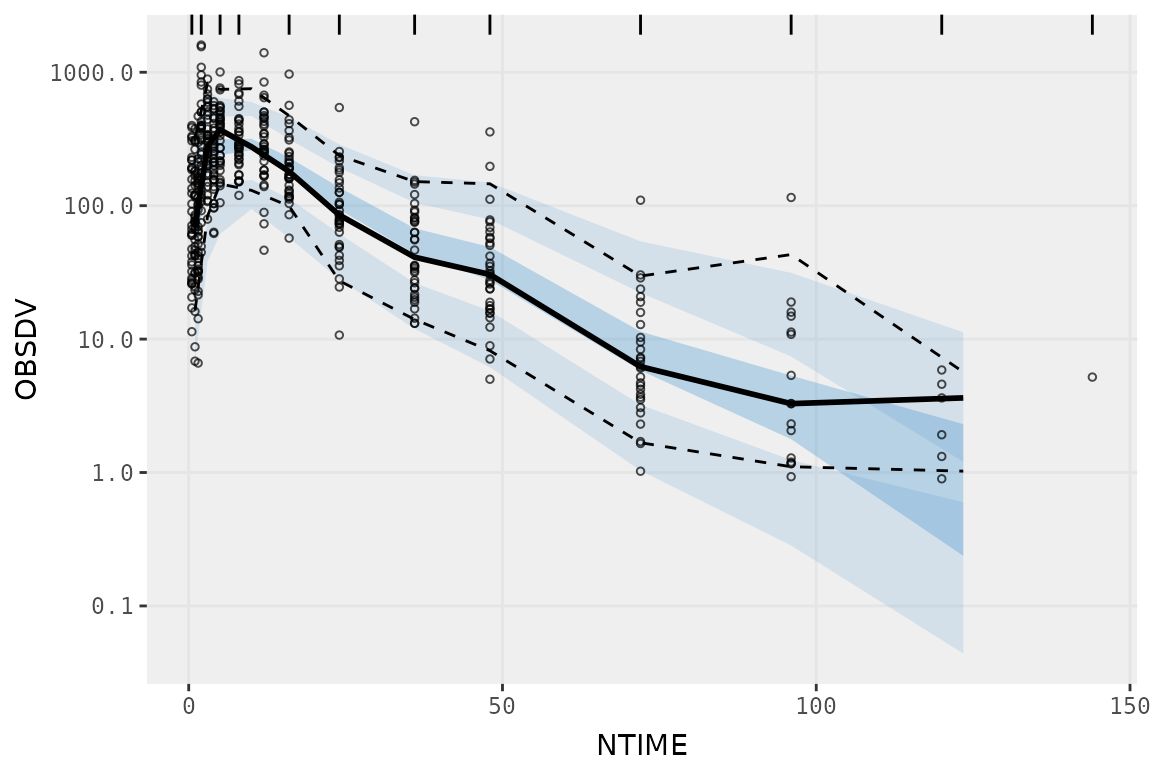
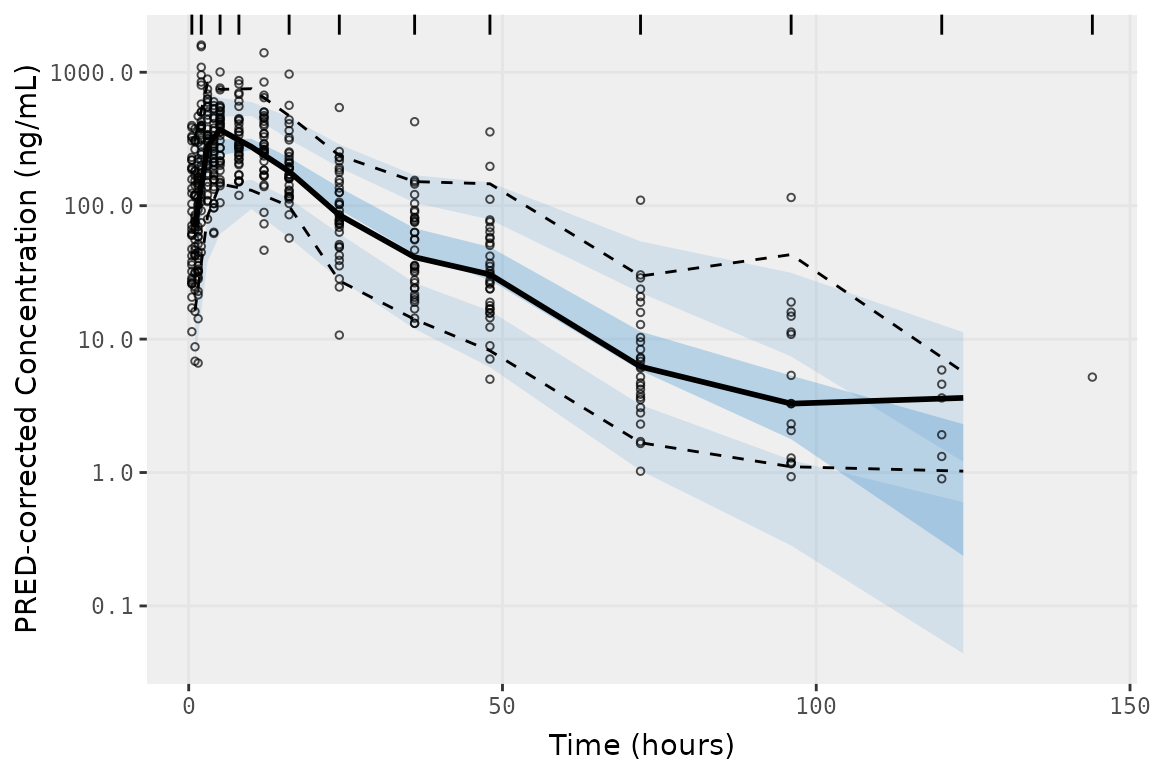
Deploying to gh-pages from @ ryancrass/pmxhelpr@c3bf84412fdc14baec981d64466ee2b2bd3fbf2d 🚀

Changed region(s): [[0.0, 0.25, 0.0312, 0.8438], [0.4688, 0.9375, 0.625, 1.0], [0.0, 0.0938, 0.0312, 0.2188]]

diff --git a/articles/vpc-exact-bins.html b/articles/vpc-exact-bins.html
@@ -366,7 +366,9 @@ plot all the data on a single plot using the argument
 <span>  pi <span class="op">=</span> <span class="fu"><a href="https://rdrr.io/r/base/c.html" class="external-link">c</a></span><span class="op">(</span><span class="fl">0.05</span>, <span class="fl">0.95</span><span class="op">)</span>,</span>
 <span>  ci <span class="op">=</span> <span class="fu"><a href="https://rdrr.io/r/base/c.html" class="external-link">c</a></span><span class="op">(</span><span class="fl">0.05</span>, <span class="fl">0.95</span><span class="op">)</span>,</span>
 <span>  show <span class="op">=</span> <span class="fu"><a href="https://rdrr.io/r/base/list.html" class="external-link">list</a></span><span class="op">(</span>obs_dv <span class="op">=</span> <span class="cn">TRUE</span><span class="op">)</span>,</span>
-<span>  log_y <span class="op">=</span> <span class="cn">TRUE</span></span>
+<span>  log_y <span class="op">=</span> <span class="cn">TRUE</span>,</span>
+<span>  xlab <span class="op">=</span> <span class="st">"Time (hours)"</span>,</span>
+<span>  ylab <span class="op">=</span> <span class="st">"PRED-corrected Concentration (ng/mL)"</span></span>
 <span><span class="op">)</span></span>
 <span><span class="va">vpc_jenks</span></span></code></pre></div>
 <p><img src="vpc-exact-bins_files/figure-html/plot-jenks-1.png" width="576"></p>
@@ -449,7 +451,9 @@ binning methods native to <code><a href="https://rdrr.io/pkg/vpc/man/vpc.html" c
 <span>  pi <span class="op">=</span> <span class="fu"><a href="https://rdrr.io/r/base/c.html" class="external-link">c</a></span><span class="op">(</span><span class="fl">0.05</span>, <span class="fl">0.95</span><span class="op">)</span>,</span>
 <span>  ci <span class="op">=</span> <span class="fu"><a href="https://rdrr.io/r/base/c.html" class="external-link">c</a></span><span class="op">(</span><span class="fl">0.05</span>, <span class="fl">0.95</span><span class="op">)</span>,</span>
 <span>  show <span class="op">=</span> <span class="fu"><a href="https://rdrr.io/r/base/list.html" class="external-link">list</a></span><span class="op">(</span>obs_dv <span class="op">=</span> <span class="cn">TRUE</span><span class="op">)</span>,</span>
-<span>  log_y <span class="op">=</span> <span class="cn">TRUE</span></span>
+<span>  log_y <span class="op">=</span> <span class="cn">TRUE</span>,</span>
+<span>  xlab <span class="op">=</span> <span class="st">"Time (hours)"</span>,</span>
+<span>  ylab <span class="op">=</span> <span class="st">"PRED-corrected Concentration (ng/mL)"</span></span>
 <span><span class="op">)</span></span>
 <span><span class="va">vpc_pretty</span></span></code></pre></div>
 <p><img src="vpc-exact-bins_files/figure-html/plot-pretty-1.png" width="576"></p>
@@ -516,7 +520,9 @@ with quantifiable observations in simulated intervals.</p>
 <span>  pi <span class="op">=</span> <span class="fu"><a href="https://rdrr.io/r/base/c.html" class="external-link">c</a></span><span class="op">(</span><span class="fl">0.05</span>, <span class="fl">0.95</span><span class="op">)</span>,</span>
 <span>  ci <span class="op">=</span> <span class="fu"><a href="https://rdrr.io/r/base/c.html" class="external-link">c</a></span><span class="op">(</span><span class="fl">0.05</span>, <span class="fl">0.95</span><span class="op">)</span>,</span>
 <span>  show <span class="op">=</span> <span class="fu"><a href="https://rdrr.io/r/base/list.html" class="external-link">list</a></span><span class="op">(</span>obs_dv <span class="op">=</span> <span class="cn">TRUE</span><span class="op">)</span>,</span>
-<span>  log_y <span class="op">=</span> <span class="cn">TRUE</span></span>
+<span>  log_y <span class="op">=</span> <span class="cn">TRUE</span>,</span>
+<span>  xlab <span class="op">=</span> <span class="st">"Time (hours)"</span>,</span>
+<span>  ylab <span class="op">=</span> <span class="st">"PRED-corrected Concentration (ng/mL)"</span></span>
 <span><span class="op">)</span></span>
 <span><span class="va">vpc_kmeans</span></span></code></pre></div>
 <p><img src="vpc-exact-bins_files/figure-html/plot-kmeans-1.png" width="576"></p>
@@ -583,7 +589,9 @@ correct bins.</p>
 <span>  pi <span class="op">=</span> <span class="fu"><a href="https://rdrr.io/r/base/c.html" class="external-link">c</a></span><span class="op">(</span><span class="fl">0.05</span>, <span class="fl">0.95</span><span class="op">)</span>,</span>
 <span>  ci <span class="op">=</span> <span class="fu"><a href="https://rdrr.io/r/base/c.html" class="external-link">c</a></span><span class="op">(</span><span class="fl">0.05</span>, <span class="fl">0.95</span><span class="op">)</span>,</span>
 <span>  show <span class="op">=</span> <span class="fu"><a href="https://rdrr.io/r/base/list.html" class="external-link">list</a></span><span class="op">(</span>obs_dv <span class="op">=</span> <span class="cn">TRUE</span><span class="op">)</span>,</span>
-<span>  log_y <span class="op">=</span> <span class="cn">TRUE</span></span>
+<span>  log_y <span class="op">=</span> <span class="cn">TRUE</span>,</span>
+<span>  xlab <span class="op">=</span> <span class="st">"Time (hours)"</span>,</span>
+<span>  ylab <span class="op">=</span> <span class="st">"PRED-corrected Concentration (ng/mL)"</span></span>
 <span><span class="op">)</span></span>
 <span><span class="va">vpc_density</span></span></code></pre></div>
 <p><img src="vpc-exact-bins_files/figure-html/plot-density-1.png" width="576"></p>
@@ -647,7 +655,9 @@ bin width in time).</p>
 <span>  pi <span class="op">=</span> <span class="fu"><a href="https://rdrr.io/r/base/c.html" class="external-link">c</a></span><span class="op">(</span><span class="fl">0.05</span>, <span class="fl">0.95</span><span class="op">)</span>,</span>
 <span>  ci <span class="op">=</span> <span class="fu"><a href="https://rdrr.io/r/base/c.html" class="external-link">c</a></span><span class="op">(</span><span class="fl">0.05</span>, <span class="fl">0.95</span><span class="op">)</span>,</span>
 <span>  show <span class="op">=</span> <span class="fu"><a href="https://rdrr.io/r/base/list.html" class="external-link">list</a></span><span class="op">(</span>obs_dv <span class="op">=</span> <span class="cn">TRUE</span><span class="op">)</span>,</span>
-<span>  log_y <span class="op">=</span> <span class="cn">TRUE</span></span>
+<span>  log_y <span class="op">=</span> <span class="cn">TRUE</span>,</span>
+<span>  xlab <span class="op">=</span> <span class="st">"Time (hours)"</span>,</span>
+<span>  ylab <span class="op">=</span> <span class="st">"PRED-corrected Concentration (ng/mL)"</span></span>
 <span><span class="op">)</span></span>
 <span></span>
 <span><span class="va">vpc_time</span> <span class="op">&lt;-</span> <span class="fu"><a href="https://rdrr.io/pkg/vpc/man/vpc.html" class="external-link">vpc</a></span><span class="op">(</span></span>
@@ -660,7 +670,9 @@ bin width in time).</p>
 <span>  pi <span class="op">=</span> <span class="fu"><a href="https://rdrr.io/r/base/c.html" class="external-link">c</a></span><span class="op">(</span><span class="fl">0.05</span>, <span class="fl">0.95</span><span class="op">)</span>,</span>
 <span>  ci <span class="op">=</span> <span class="fu"><a href="https://rdrr.io/r/base/c.html" class="external-link">c</a></span><span class="op">(</span><span class="fl">0.05</span>, <span class="fl">0.95</span><span class="op">)</span>,</span>
 <span>  show <span class="op">=</span> <span class="fu"><a href="https://rdrr.io/r/base/list.html" class="external-link">list</a></span><span class="op">(</span>obs_dv <span class="op">=</span> <span class="cn">TRUE</span><span class="op">)</span>,</span>
-<span>  log_y <span class="op">=</span> <span class="cn">TRUE</span></span>
+<span>  log_y <span class="op">=</span> <span class="cn">TRUE</span>,</span>
+<span>  xlab <span class="op">=</span> <span class="st">"Time (hours)"</span>,</span>
+<span>  ylab <span class="op">=</span> <span class="st">"PRED-corrected Concentration (ng/mL)"</span></span>
 <span><span class="op">)</span></span>
 <span></span>
 <span><span class="va">vpc_data</span></span></code></pre></div>
@@ -753,7 +765,9 @@ a vector of unique exact bins to <code>bins</code> with the addition of
 <span>  pi <span class="op">=</span> <span class="fu"><a href="https://rdrr.io/r/base/c.html" class="external-link">c</a></span><span class="op">(</span><span class="fl">0.05</span>, <span class="fl">0.95</span><span class="op">)</span>,</span>
 <span>  ci <span class="op">=</span> <span class="fu"><a href="https://rdrr.io/r/base/c.html" class="external-link">c</a></span><span class="op">(</span><span class="fl">0.05</span>, <span class="fl">0.95</span><span class="op">)</span>,</span>
 <span>  show <span class="op">=</span> <span class="fu"><a href="https://rdrr.io/r/base/list.html" class="external-link">list</a></span><span class="op">(</span>obs_dv <span class="op">=</span> <span class="cn">TRUE</span><span class="op">)</span>,</span>
-<span>  log_y <span class="op">=</span> <span class="cn">TRUE</span></span>
+<span>  log_y <span class="op">=</span> <span class="cn">TRUE</span>,</span>
+<span>  xlab <span class="op">=</span> <span class="st">"Time (hours)"</span>,</span>
+<span>  ylab <span class="op">=</span> <span class="st">"PRED-corrected Concentration (ng/mL)"</span></span>
 <span><span class="op">)</span></span>
 <span><span class="va">vpc_exact_ntime</span></span></code></pre></div>
 <p><img src="vpc-exact-bins_files/figure-html/plot-vpc-exact-1.png" width="576"></p>
@@ -777,7 +791,9 @@ prediction-correction of those observed points if
 <span>  output_vars <span class="op">=</span> <span class="fu"><a href="https://rdrr.io/r/base/c.html" class="external-link">c</a></span><span class="op">(</span>PRED <span class="op">=</span> <span class="st">"PRED"</span>, IPRED <span class="op">=</span> <span class="st">"IPRED"</span>, SIMDV <span class="op">=</span> <span class="st">"SIMDV"</span>, OBSDV <span class="op">=</span> <span class="st">"OBSDV"</span><span class="op">)</span>,</span>
 <span>  pi <span class="op">=</span> <span class="fu"><a href="https://rdrr.io/r/base/c.html" class="external-link">c</a></span><span class="op">(</span><span class="fl">0.05</span>, <span class="fl">0.95</span><span class="op">)</span>,</span>
 <span>  ci <span class="op">=</span> <span class="fu"><a href="https://rdrr.io/r/base/c.html" class="external-link">c</a></span><span class="op">(</span><span class="fl">0.05</span>, <span class="fl">0.95</span><span class="op">)</span>,</span>
-<span>  log_y <span class="op">=</span> <span class="cn">TRUE</span></span>
+<span>  log_y <span class="op">=</span> <span class="cn">TRUE</span>,</span>
+<span>  xlab <span class="op">=</span> <span class="st">"Time (hours)"</span>,</span>
+<span>  ylab <span class="op">=</span> <span class="st">"PRED-corrected Concentration (ng/mL)"</span></span>
 <span><span class="op">)</span></span>
 <span></span>
 <span><span class="va">vpc_exact</span></span></code></pre></div>
@@ -862,7 +878,9 @@ without introducing visual artifacts due to small sample timepoints.</p>
 <span>  pi <span class="op">=</span> <span class="fu"><a href="https://rdrr.io/r/base/c.html" class="external-link">c</a></span><span class="op">(</span><span class="fl">0.05</span>, <span class="fl">0.95</span><span class="op">)</span>,</span>
 <span>  ci <span class="op">=</span> <span class="fu"><a href="https://rdrr.io/r/base/c.html" class="external-link">c</a></span><span class="op">(</span><span class="fl">0.05</span>, <span class="fl">0.95</span><span class="op">)</span>,</span>
 <span>  min_bin_count <span class="op">=</span> <span class="fl">10</span>,</span>
-<span>  log_y <span class="op">=</span> <span class="cn">TRUE</span></span>
+<span>  log_y <span class="op">=</span> <span class="cn">TRUE</span>,</span>
+<span>  xlab <span class="op">=</span> <span class="st">"Time (hours)"</span>,</span>
+<span>  ylab <span class="op">=</span> <span class="st">"PRED-corrected Concentration (ng/mL)"</span></span>
 <span><span class="op">)</span></span>
 <span></span>
 <span><span class="va">vpc_exact_bin_gt10</span></span></code></pre></div>
@@ -887,7 +905,9 @@ passed to this argument.</p>
 <span>  output_vars <span class="op">=</span> <span class="fu"><a href="https://rdrr.io/r/base/c.html" class="external-link">c</a></span><span class="op">(</span>PRED <span class="op">=</span> <span class="st">"PRED"</span>, IPRED <span class="op">=</span> <span class="st">"IPRED"</span>, SIMDV <span class="op">=</span> <span class="st">"SIMDV"</span>, OBSDV <span class="op">=</span> <span class="st">"OBSDV"</span><span class="op">)</span>,</span>
 <span>  pi <span class="op">=</span> <span class="fu"><a href="https://rdrr.io/r/base/c.html" class="external-link">c</a></span><span class="op">(</span><span class="fl">0.05</span>, <span class="fl">0.95</span><span class="op">)</span>,</span>
 <span>  ci <span class="op">=</span> <span class="fu"><a href="https://rdrr.io/r/base/c.html" class="external-link">c</a></span><span class="op">(</span><span class="fl">0.05</span>, <span class="fl">0.95</span><span class="op">)</span>,</span>
-<span>  log_y <span class="op">=</span> <span class="cn">TRUE</span></span>
+<span>  log_y <span class="op">=</span> <span class="cn">TRUE</span>,</span>
+<span>  xlab <span class="op">=</span> <span class="st">"Time (hours)"</span>,</span>
+<span>  ylab <span class="op">=</span> <span class="st">"PRED-corrected Concentration (ng/mL)"</span></span>
 <span><span class="op">)</span></span>
 <span></span>
 <span><span class="va">vpc_exact_food</span></span></code></pre></div>

diff --git a/reference/plot_vpc_exactbins.html b/reference/plot_vpc_exactbins.html
@@ -53,8 +53,6 @@ that returns a <code>ggplot2</code> object.</p>
 <span>  strat_vars <span class="op">=</span> <span class="cn">NULL</span>,</span>
 <span>  irep_name <span class="op">=</span> <span class="st">"SIM"</span>,</span>
 <span>  min_bin_count <span class="op">=</span> <span class="fl">1</span>,</span>
-<span>  conc_label <span class="op">=</span> <span class="st">"Concentration"</span>,</span>
-<span>  time_label <span class="op">=</span> <span class="st">"Time"</span>,</span>
 <span>  lower_bound <span class="op">=</span> <span class="fl">0</span>,</span>
 <span>  <span class="va">...</span></span>
 <span><span class="op">)</span></span></code></pre></div>
@@ -95,14 +93,6 @@ of <code><a href="https://rdrr.io/pkg/vpc/man/vpc.html" class="external-link">vp
 <dd><p>Minimum number of quantifiable observations in exact bin for inclusion
 in binned plot layers. This argument drops small bins from summary statistic calculation
 but retains these observations in the observed data points.</p></dd>
-
-
-<dt id="arg-conc-label">conc_label<a class="anchor" aria-label="anchor" href="#arg-conc-label"></a></dt>
-<dd><p>Label for the concentration axis.</p></dd>
-
-
-<dt id="arg-time-label">time_label<a class="anchor" aria-label="anchor" href="#arg-time-label"></a></dt>
-<dd><p>Label for the time axis.</p></dd>
 
 
 <dt id="arg-lower-bound">lower_bound<a class="anchor" aria-label="anchor" href="#arg-lower-bound"></a></dt>
